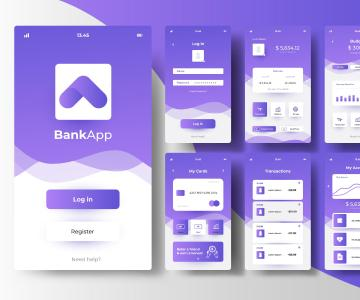
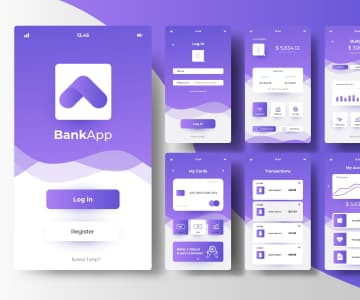
desc

diff --git a/index.html b/index.html
@@ -140,7 +140,7 @@
         <ul>
           <li>
             <img
-              src="./images/banking-app.jpg"
+              src="./images/Banking-App.jpg"
               alt="banking applications"
               width="360"
             />
